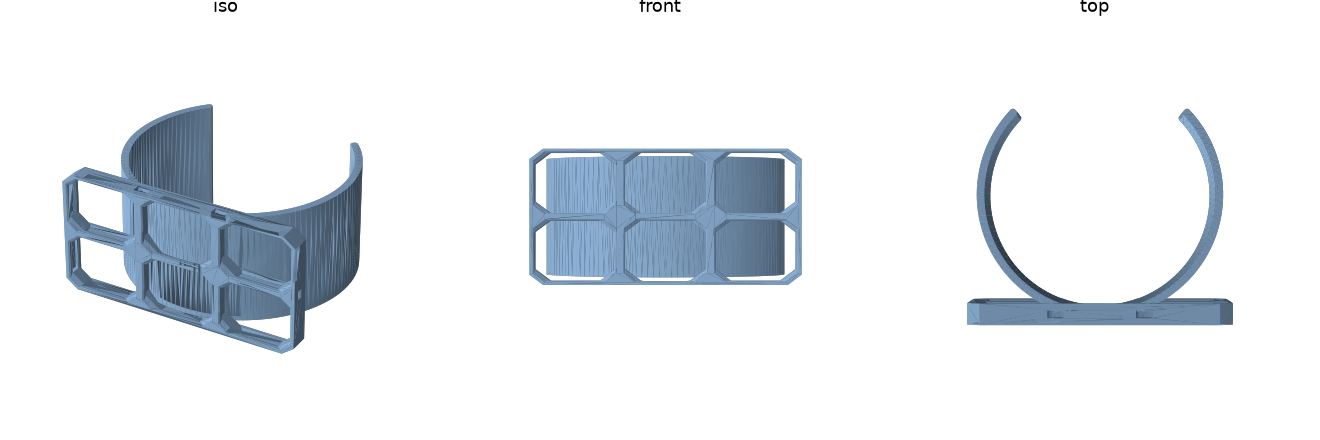
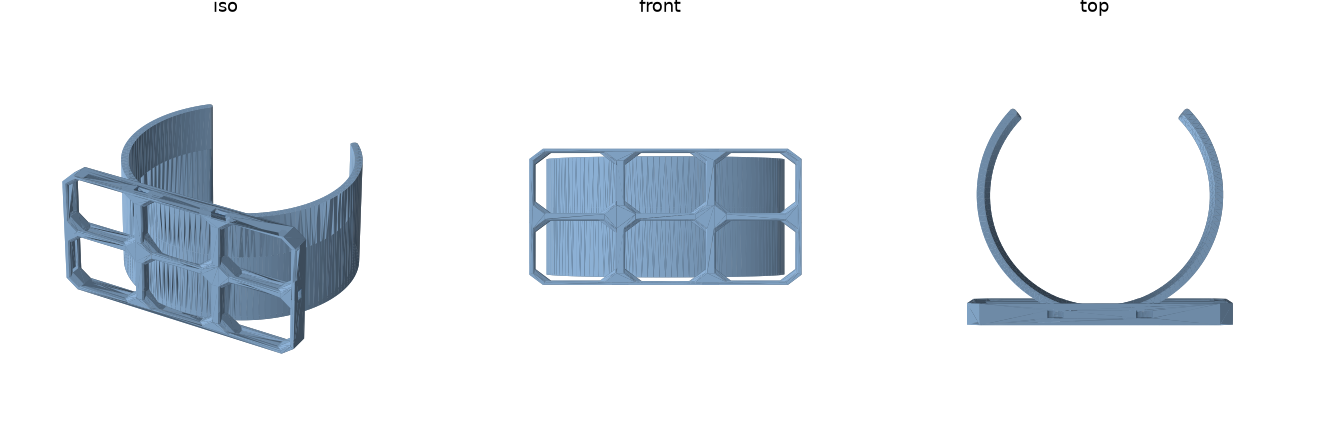
fix(build123d): bore re-carve clearance — non-watertight STL at small d (pst-98p4)
Addresses the non-blocking finding on PR #75 (codex review @107db67): the
d=30/h=60/wall=2.4/open=90 export had open edges. Root cause: the bore was
re-carved at exactly r_in, coplanar with the collar's inner cylindrical face —
a degenerate OCCT boolean that produced open STL edges for several tile
footprints (correlated to Base x_count parity: d in ~30-56 and 85-112), while
3- and 5-cell tiles survived.

Fix: carve at r_in + BORE_CLEARANCE (0.1mm). Keeps the boolean
off-coplanar and gives the slip-fit holder a real insertion gap. Verified
watertight + single-body across d in {30,50,85,90,66,120}; 29 tests pass.

Complements 7286097 (pst-1769, the blocking min-wall fix) on the same branch.

🤖 Generated with [Claude Code](https://claude.com/claude-code)

diff --git a/build123d/tests/test_cylindrical.py b/build123d/tests/test_cylindrical.py
@@ -19,6 +19,7 @@ from opengrid.base import Base  # noqa: E402
 from opengrid.constants import OPEN_GRID_UNIT_SIZE  # noqa: E402
 
 from holders.cylindrical import (  # noqa: E402
+    BORE_CLEARANCE,
     D_MAX,
     D_MIN,
     H_MAX,
@@ -178,7 +179,8 @@ def test_mount_is_the_library_tile():
     tile = tile.moved(Location((0, back_center_y + 3.4, h / 2.0)))
 
     bore = Cylinder(
-        radius=r_in, height=h + 8.0, align=(Align.CENTER, Align.CENTER, Align.CENTER)
+        radius=r_in + BORE_CLEARANCE, height=h + 8.0,
+        align=(Align.CENTER, Align.CENTER, Align.CENTER),
     )
     expected = tile - bore
     present = part.intersect(tile)
@@ -186,6 +188,19 @@ def test_mount_is_the_library_tile():
     assert present_vol == pytest.approx(expected.volume, abs=1.0), (
         f"library tile not fully present: {present_vol:.1f} vs {expected.volume:.1f}"
     )
+
+
+@pytest.mark.parametrize("d", [D_MIN, 50.0, 85.0, 90.0, 112.0, D_MAX])
+def test_export_is_watertight_across_diameter_range(d, tmp_path):
+    """Regression: the bore re-carve must stay off-coplanar with the
+    collar's inner face. A coplanar carve left the exported STL
+    non-watertight for several tile footprints (d=30..50, 85..112)."""
+    part = holder(d, 60.0)
+    stl = tmp_path / f"wt_d{d}.stl"
+    export_stl(part, str(stl))
+    mesh = trimesh.load_mesh(stl)
+    assert mesh.is_watertight, f"d={d}: exported STL not watertight"
+    assert mesh.body_count == 1
 
 
 def test_can_space_is_clear():

diff --git a/build123d/holders/cylindrical.py b/build123d/holders/cylindrical.py
@@ -59,6 +59,12 @@ OPENING_MIN, OPENING_MAX = 60.0, 120.0  # opening arc, degrees (wrap >= 240)
 
 LIP_RADIUS = 1.0  # mm, nominal real BRep fillet on the opening's entry corners
 
+# Radial clearance between the cylinder and the re-carved bore, mm. Keeps the
+# carve off-coplanar with the collar's inner face (a coplanar boolean left the
+# exported STL non-watertight for some tile footprints) and gives the
+# slip-fit holder a real insertion gap.
+BORE_CLEARANCE = 0.1
+
 
 def _lip_radius(wall: float) -> float:
     """Fillet radius for the opening's entry corners.
@@ -186,7 +192,9 @@ def holder(
     # Re-carve the bore so the tile lattice never intrudes into the
     # cylinder space (the tile's front 5+mm of overlap is removed).
     bore = Cylinder(
-        radius=r_in, height=h + 8.0, align=(Align.CENTER, Align.CENTER, Align.CENTER)
+        radius=r_in + BORE_CLEARANCE,
+        height=h + 8.0,
+        align=(Align.CENTER, Align.CENTER, Align.CENTER),
     )
     part = (part - bore).clean()
     return part
